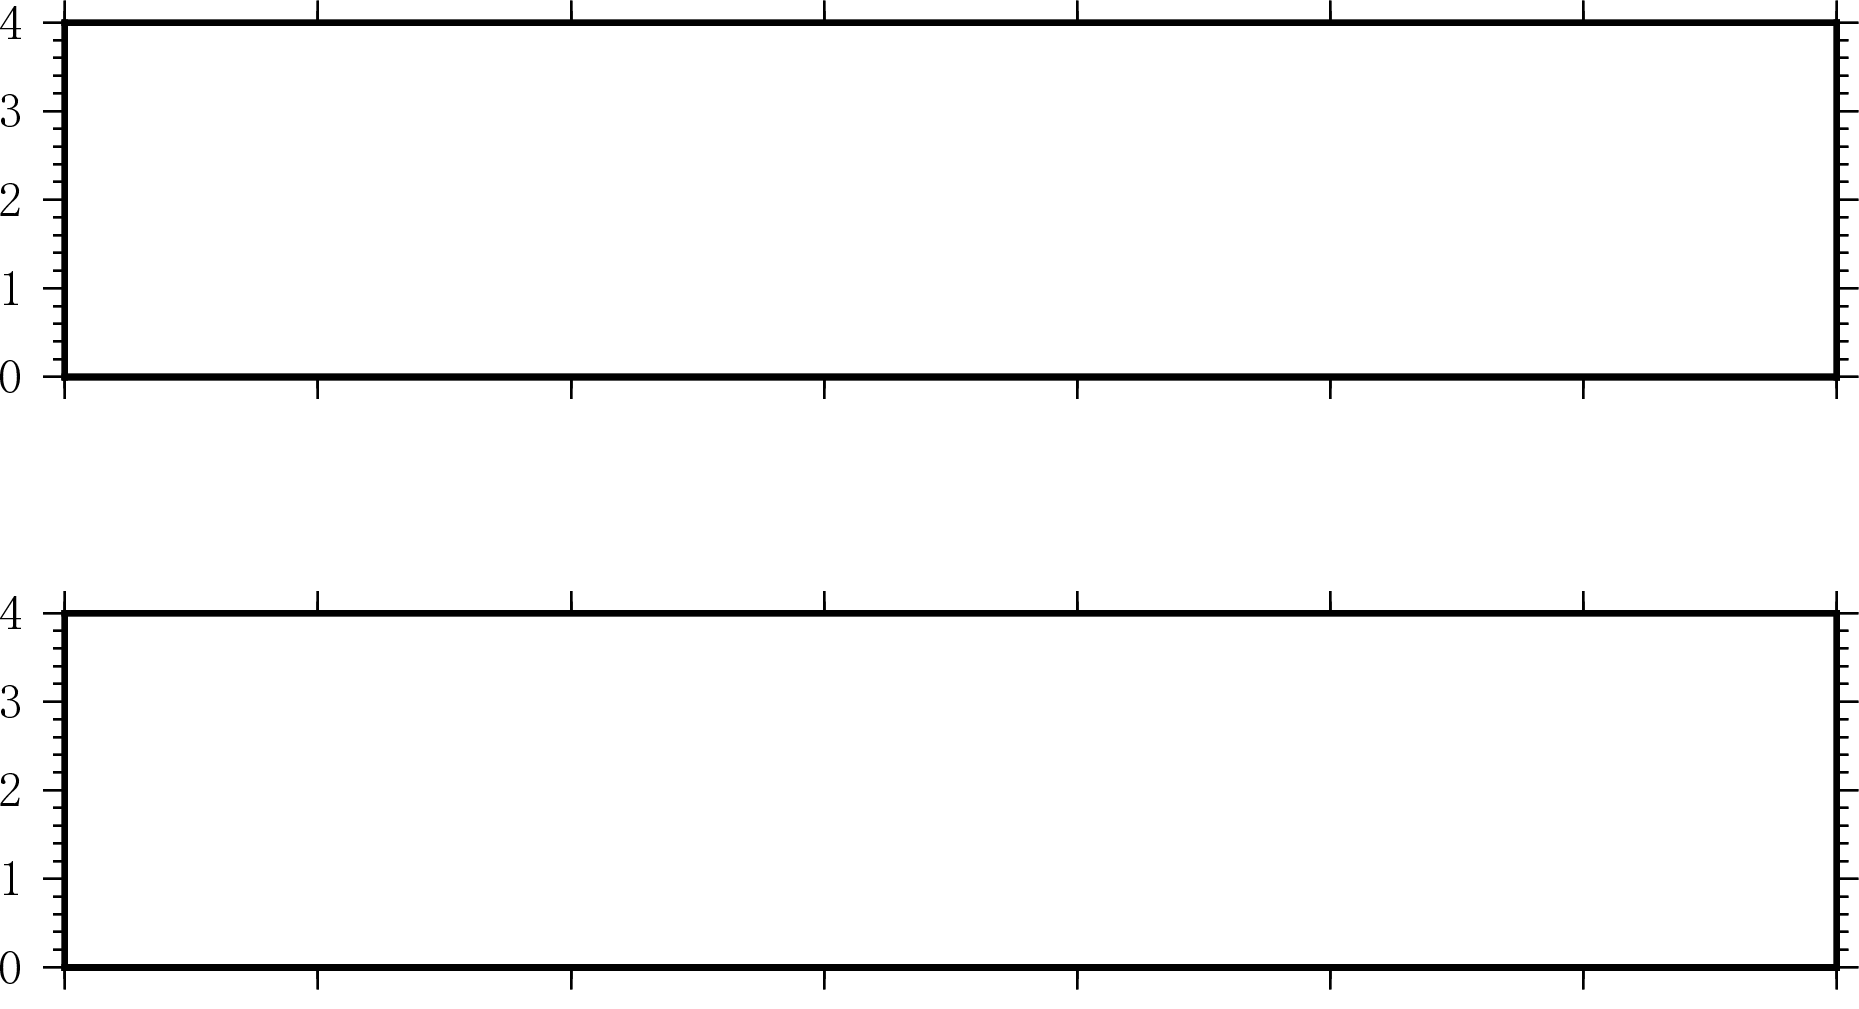
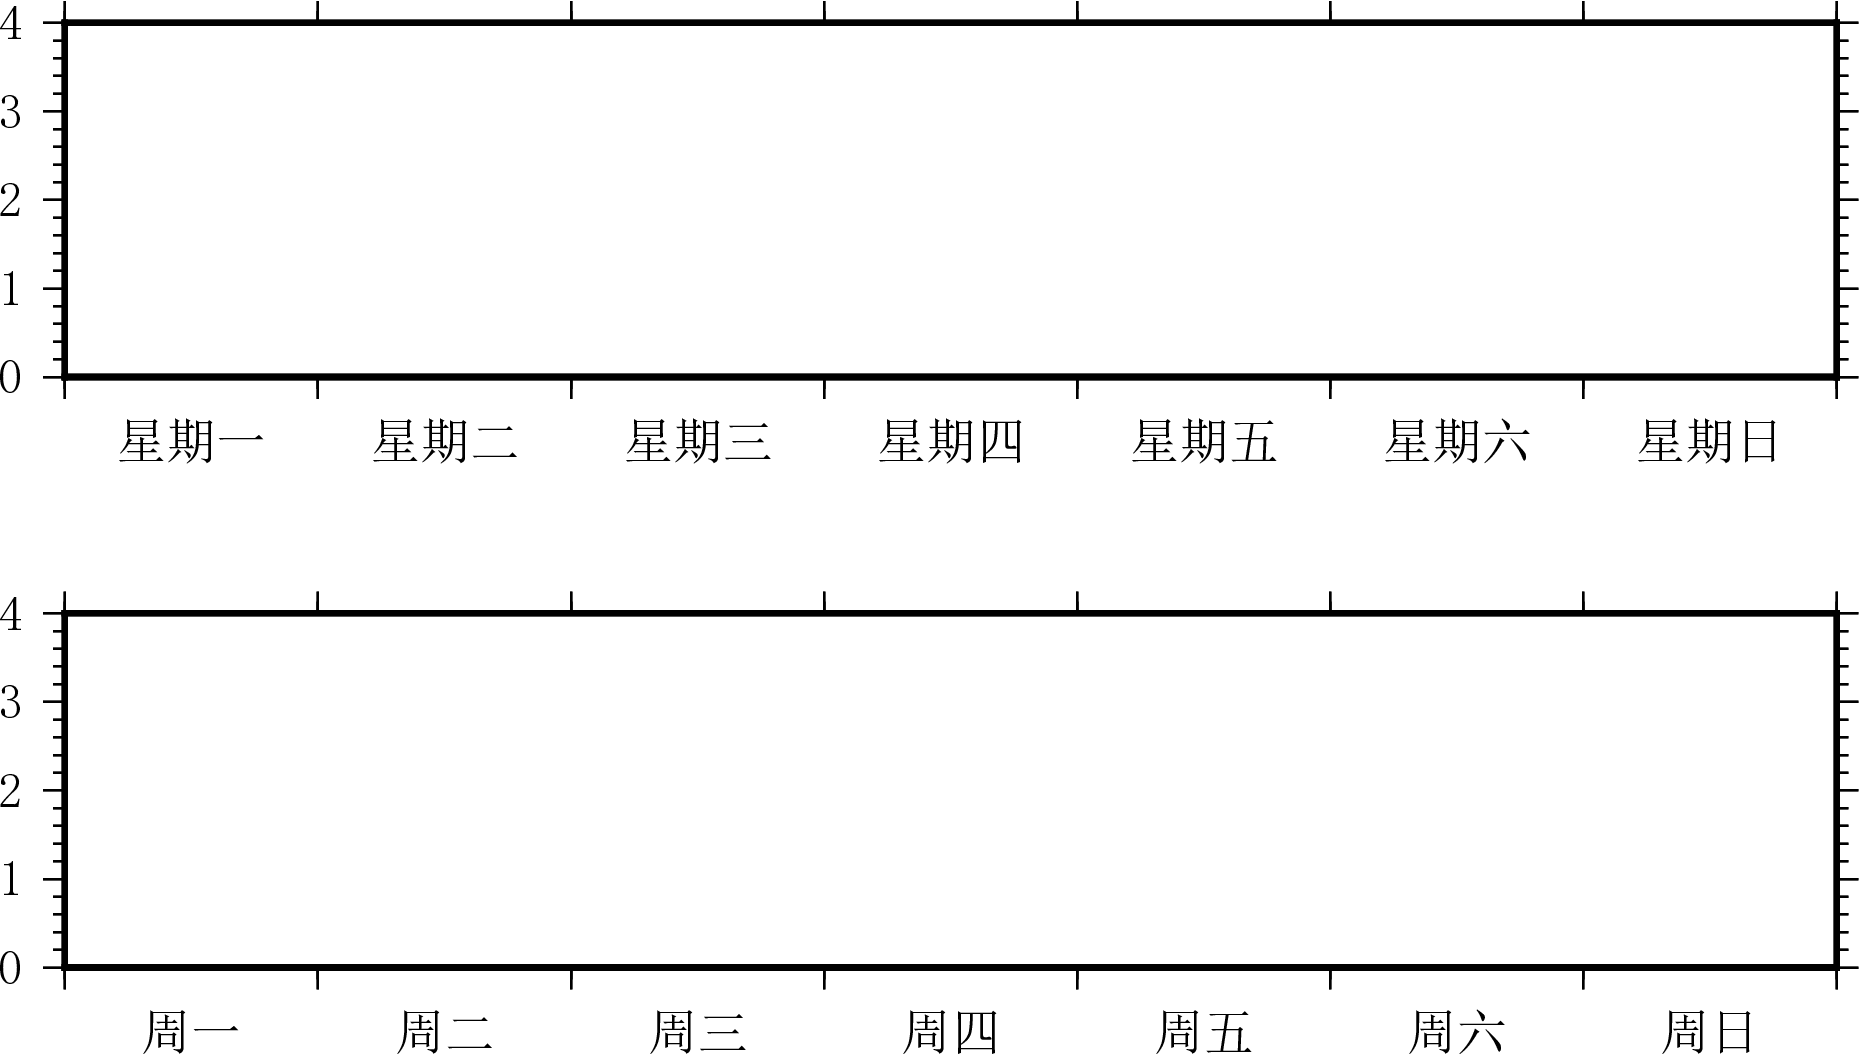
Fix broken png

diff --git a/source/gallery/chinese-texts/index.rst b/source/gallery/chinese-texts/index.rst
@@ -6,6 +6,17 @@
     GMT本身不支持中文，若需要在GMT上显示中文，需要进行额外的配置。具体方法见
     :doc:`/install/index` 一章。本文假定用户已经做好了GMT中文支持的配置工作。
 
+.. note::
+
+    GMT中文语言文件是GMT安装目录下的文件 ``share/localization/gmt_cn1.locale``\ 。
+    该中文语言文件默认为GB2312编码方式。对于Linux和macOS用户，需要人工将其修改为
+    UTF8编码才能正常显示中文的月份和星期。Windows用户则不需要对其进行处理。
+
+    修改文件编码方式的方式有很多，请自行查找。我使用的是
+    `enca <https://github.com/nijel/enca>`_\ 的如下命令修改编码::
+
+        enca -L zh_CN -x UTF-8 gmt_cn1.locale
+
 中文文字
 --------
 
